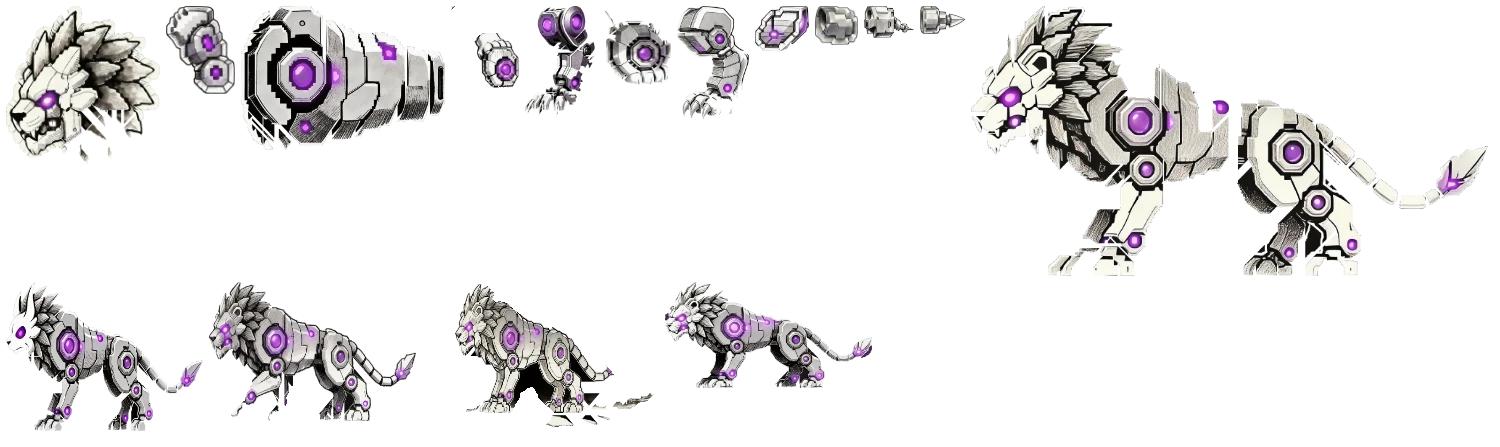
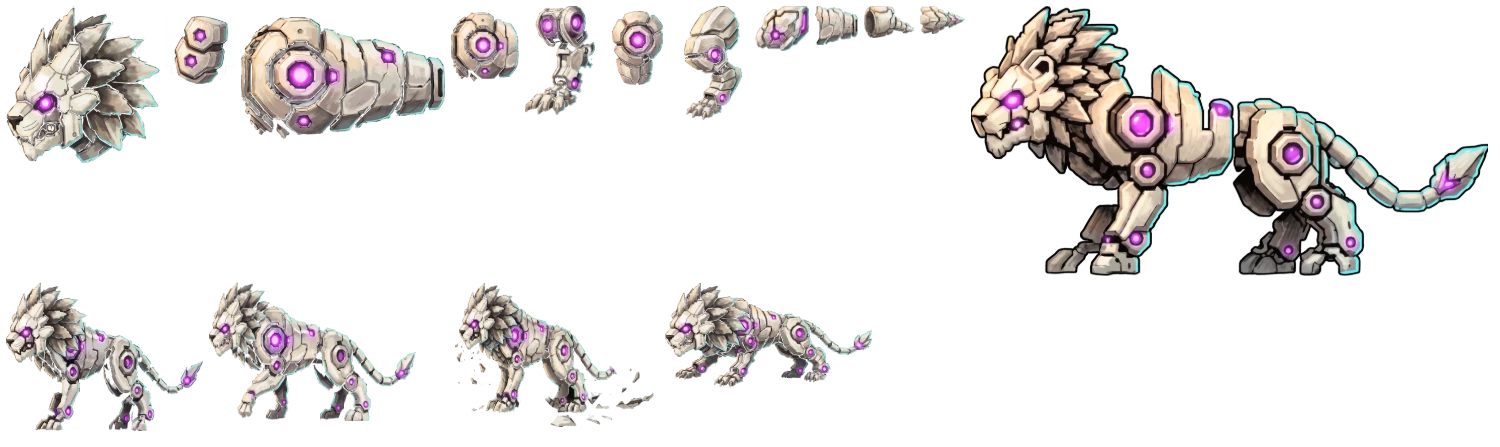
Nullfang painted: sixteen parts refired against his own painted head, rebuilt through the rig
The bossparts pipeline as art-prompts §5: extract, the head first as the
anchor, fourteen parts against it; the three small joints that came back as
heads and the tail segment that came back as a chain refired against the
painted body. Rebuilt 16/16 (five joints letterboxed for aspect drift) and
photographed through his rig in idle, walk, roar and attack. artbible
bosspace lowres platform green. Plates in assets/source/beast/style_d.

Claude-Session: https://claude.ai/code/session_011hKtSHdTMEFtEPt4TTsASV

diff --git a/docs/ART_QUEUE.md b/docs/ART_QUEUE.md
@@ -559,6 +559,19 @@ upscaled; the sheet ships at 2496×2508. Two white-field refires. Plates in
 `assets/source/roster/style_d/`, contact in `_sheets/`. `artbible lowres
 frames` green; A1 / A6 / A7 / A2 photographed.
 
+**NULLFANG, the first guardian, painted** — the bossparts pipeline exactly as
+`.claude/skills/art-prompts` §5 lays it out: `extract` (16 blurred rects),
+the whole figure and the HEAD fired first as the anchor, the other fourteen
+fired against the painted head as IMAGE 2. Three small round joints (hip,
+shoulder, neck) came back as HEADS — the anchor outshouting the blurred
+part, §2's lesson in reverse — and tail1 as a curved chain; all four refired
+against the painted BODY as the anchor with "NOT a head, NO face, NO mane"
+and came back as parts. `rebuild` from 1024-px copies (the 2K plates as data
+URIs crash the page): 16/16, five joints letterboxed for aspect drift
+(neck 29 %, bleg0 −24 %), and `tools/bossshot.cjs A4 idle,walk,roar,atk`
+shows him assembled without a gap the eye finds. `artbible bosspace lowres`
+green. Plates in `assets/source/beast/style_d/`, before-atlas beside them.
+
 **Still in the old 3D look, on THE FIRING LIST in order:** the NPC interiors; the wallpapers via `bgderive`; the guardian parts
 atlases (75 parts); the enemy briefs (§2i, §2l, §2n, §2p); the lairs and gates
 (§2f, §2g); the four §2aj plates.
